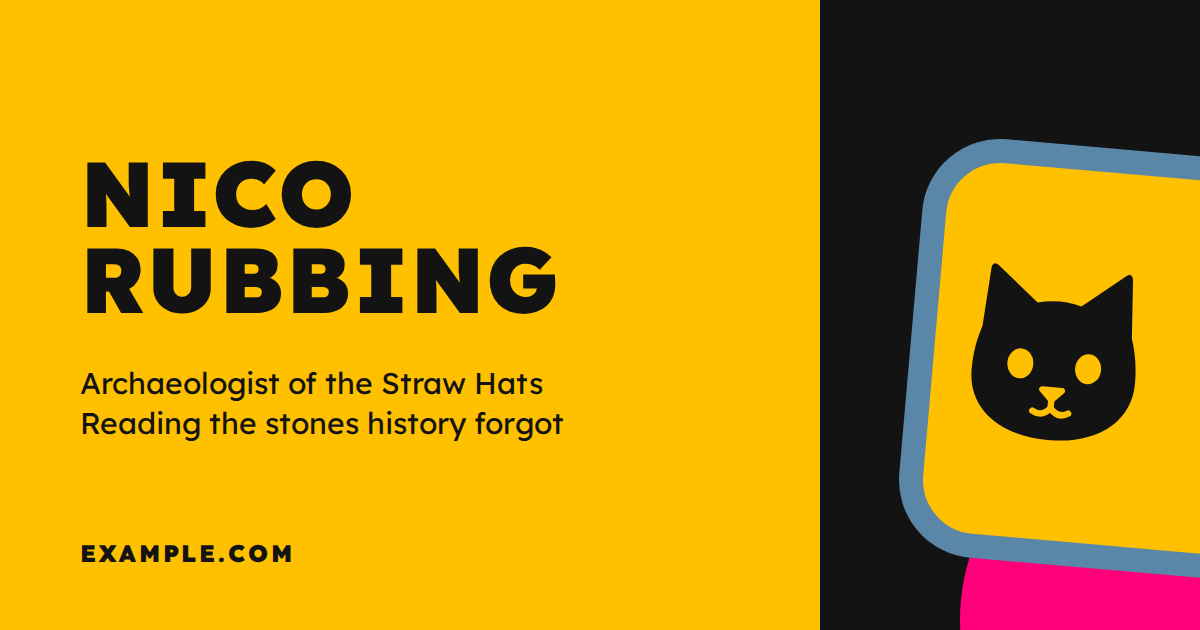
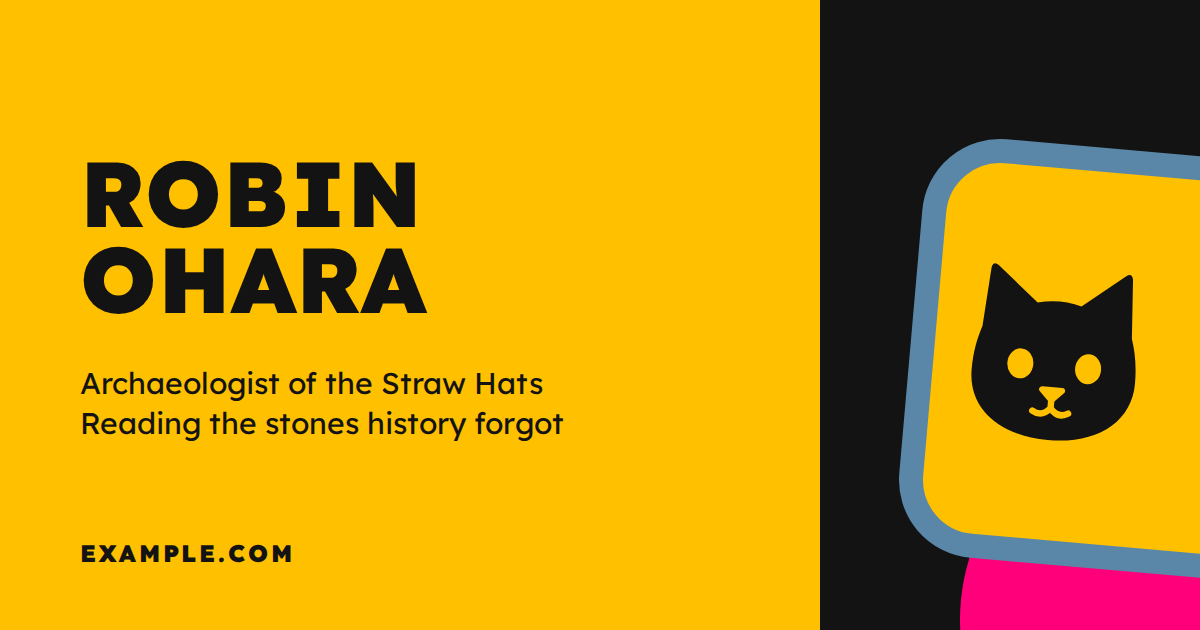
feat: Rename the sample persona to Robin Ohara, and regenerate the sharing image and the talk PDF.

Changed region(s): [[0.0617, 0.3921, 0.4625, 0.5127], [0.0925, 0.2413, 0.37, 0.3619]]

diff --git a/src/site.config.ts b/src/site.config.ts
@@ -89,22 +89,22 @@ const config: SiteConfig = {
       'Archaeologist of the Straw Hats',
       'Reading the stones history forgot',
     ],
-    repository: 'https://github.example/nico-rubbing/example-site',
+    repository: 'https://github.example/robin-ohara/example-site',
     motto: { text: 'Lege Saxa', lang: 'la' },
   },
   person: {
-    givenName: 'Nico',
-    familyName: 'Rubbing',
+    givenName: 'Robin',
+    familyName: 'Ohara',
     jobTitle: 'Archaeologist',
     email: 'hello@example.com',
     cv: null,
   },
   profiles: [
-    { label: 'GitHub', href: 'https://github.example/nico-rubbing' },
-    { label: 'LinkedIn', href: 'https://linkedin.example/in/nico-rubbing' },
-    { label: 'Instagram', href: 'https://instagram.example/nico-rubbing/' },
-    { label: 'Bluesky', href: 'https://bluesky.example/profile/nico-rubbing' },
-    { label: 'Mastodon', href: 'https://mastodon.example/@nico-rubbing' },
+    { label: 'GitHub', href: 'https://github.example/robin-ohara' },
+    { label: 'LinkedIn', href: 'https://linkedin.example/in/robin-ohara' },
+    { label: 'Instagram', href: 'https://instagram.example/robin-ohara/' },
+    { label: 'Bluesky', href: 'https://bluesky.example/profile/robin-ohara' },
+    { label: 'Mastodon', href: 'https://mastodon.example/@robin-ohara' },
   ],
   analytics: null,
   journeyPost: 'sample-post',

diff --git a/tests/contact.spec.ts b/tests/contact.spec.ts
@@ -604,7 +604,7 @@ test.describe('the contact endpoint', () => {
       {
         name: 'Ada\r\nBcc: victim@example.com',
         email: 'ada@example.com',
-        body: 'Hello there, Nico.',
+        body: 'Hello there, Robin.',
       },
       NOTIFY_TO,
       new Date(0),

diff --git a/ACCESSIBILITY.md b/ACCESSIBILITY.md
@@ -14,8 +14,8 @@ The statement is voluntary for a personal site and follows the
 | ------------------- | ---------------------------------------------------------- |
 | Project             | astro-cat-portfolio                                        |
 | Project type        | Static personal website (Astro, two Vue islands, Tailwind) |
-| Accessibility owner | Nico Rubbing                                               |
-| Public reporting    | <https://github.example/nico-rubbing/example-site/issues>  |
+| Accessibility owner | Robin Ohara                                                |
+| Public reporting    | <https://github.example/robin-ohara/example-site/issues>   |
 | Private reporting   | <hello@example.com>                                        |
 | Target standard     | WCAG 2.2 Level AA, with AAA text contrast                  |
 | Conformance status  | **Target only. No conformance claim.**                     |
@@ -48,7 +48,7 @@ status is still "Target only. No conformance claim."
 | 1.4.8 Visual Presentation            | `tests/visual-presentation.spec.ts`, every route at 390, 1280 and 1920: a visible `p`, `li` or `dd` of more than one sentence has at most 80 characters a line, line height 1.5 or more and no justification; each `p` followed by a `p` leaves 2.5em of the larger text from its last line box's top to the next one's first. Width at 200%: `tests/reflow.spec.ts`. Colours: browsers can override them (G156); the theme switch offers light and dark (`tests/light-mode.spec.ts`). |
 | 2.2.4 Interruptions                  | Nothing interrupts: no alerts, assertive live regions or automatic refresh.                                                                                                                                                                                                                                                                                                                                                                                                            |
 | 2.3.3 Animation from Interactions    | Under `prefers-reduced-motion: reduce` a pressed control does not move into its shadow, the hero field is drawn once and held, and the About cats sit still (`tests/press.spec.ts`, `tests/motion.spec.ts`, `tests/about-cats.spec.ts`).                                                                                                                                                                                                                                               |
-| 2.4.9 Link Purpose (Link Only)       | Within a page, one link name leads to one place. Hidden text completes short names: "Community tag", "Nico on GitHub". Exception: link text in posts, listed in `tests/link-purpose.spec.ts`.                                                                                                                                                                                                                                                                                          |
+| 2.4.9 Link Purpose (Link Only)       | Within a page, one link name leads to one place. Hidden text completes short names: "Community tag", "Robin on GitHub". Exception: link text in posts, listed in `tests/link-purpose.spec.ts`.                                                                                                                                                                                                                                                                                         |
 | 2.4.12 Focus Not Obscured (Enhanced) | No focused control is even partly covered. On pages, none sits under the sticky header in either Tab direction (`tests/focus.spec.ts`); the About cats' sleep controls sit beside their cat buttons, and the last cat's band ends at the raised card above it; inside the open cat card, photo viewer and menu, every stop is wholly uncovered (`tests/focus-obscured.spec.ts`).                                                                                                       |
 | 2.4.13 Focus Appearance              | One solid ring, `--focus-width` wide. At every page focus stop it covers at least a 2px perimeter of the control and reaches 3:1 against the ground it paints over.                                                                                                                                                                                                                                                                                                                    |
 | 2.5.5 Target Size (Enhanced)         | Every pointer target outside a sentence has a 44 by 44px area of its own, never shared: controls are drawn at `--spacing-target` (44px); header and breadcrumb links get a pointer area wider than their drawn box (`.hit-target`); footer links are 44px rows. `tests/target-size.spec.ts` hit-tests every target on every page and in every open dialog at 305px and 1280px.                                                                                                         |
@@ -320,7 +320,7 @@ template ships with none of it run; record your own results. Not automated:
 If something on this site blocks you, report it. You do not need to know the
 WCAG criterion or say anything about yourself.
 
-- **Public:** <https://github.example/nico-rubbing/example-site/issues>
+- **Public:** <https://github.example/robin-ohara/example-site/issues>
 - **Private:** <hello@example.com>
 
 Useful, never required: the page, what you tried and what happened, your

diff --git a/src/content/talks/sample-talk/slides.md b/src/content/talks/sample-talk/slides.md
@@ -7,7 +7,7 @@ info: 'Every slide of the talk Reading the Stones, as text: why records disappea
 
 What Old Records Teach Open Projects
 
-Nico Rubbing
+Robin Ohara
 
 ---
 
@@ -17,7 +17,7 @@ part: Introduction
 
 # About the speaker
 
-Nico Rubbing, archaeologist of the Straw Hat Pirates
+Robin Ohara, archaeologist of the Straw Hat Pirates
 
 - Reads the Poneglyphs
 - Passed the archaeology exam on Ohara at eight
